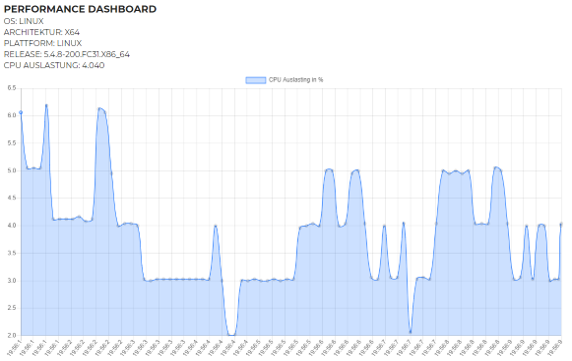
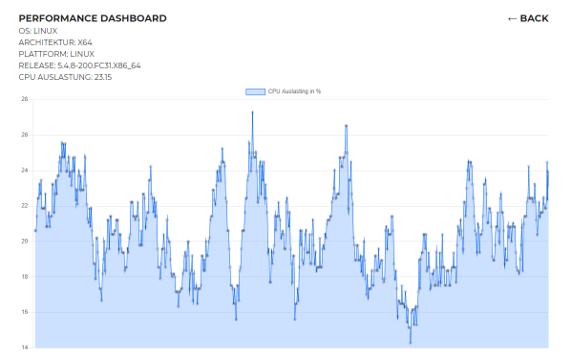
update

Changed region(s): [[0.0, 0.0, 1.0, 1.0], [0.4161, 0.2133, 0.5647, 0.2742], [0.8916, 0.0305, 0.9808, 0.0609]]

diff --git a/src/app/performance-dashboard/performance-dashboard.component.html b/src/app/performance-dashboard/performance-dashboard.component.html
@@ -1,0 +1,60 @@
+<div class="container" style="margin-top: 2rem;">
+  <div class="row">
+    <div class="col">
+      <div>
+        <h3 style="font-size: 20px;font-weight: 600;">PERFORMANCE DASHBOARD <div class="arrow float-right"> <span routerLink="/">← back</span>
+          </div>
+        </h3>
+        <h3>OS: {{data?.os}}</h3>
+        <h3>ARCHITEKTUR: {{data?.arch}}</h3>
+        <h3>PLATTFORM: {{data?.platform}}</h3>
+        <h3>RELEASE: {{data?.release}}</h3>
+        <h3>CPU AUSLASTUNG: {{data?.cpu}}</h3>
+      </div>
+    </div>
+  </div>
+  <div class="row">
+    <div class="col">
+      <canvas id="myChart"></canvas>
+    </div>
+  </div>
+  <br>
+  <div class="row">
+    <div class="col">
+      <p>Projektbeschreibung:</p>
+      Das Performance Dashboard visualisiert die CPU Auslastung (in %) des Host-Server in Echtzeit der letzten 60 Sekunden.
+      Die Daten werden pro Sekunde 10x aktualisiert.  
+      <table class="table">
+        <thead>
+          <tr>
+            <th scope="col">#</th>
+            <th scope="col">Dimension</th>
+            <th scope="col">Wert</th>
+          </tr>
+        </thead>
+        <tbody>
+          <tr>
+            <th scope="row">1</th>
+            <td>Backend</td>
+            <td>NodeJS</td>
+          </tr>
+          <tr>
+            <th scope="row">2</th>
+            <td>Datenprotokoll</td>
+            <td>Websocket</td>
+          </tr>
+          <tr>
+            <th scope="row">3</th>
+            <td>Chart-Lib</td>
+            <td>Chart.JS</td>
+          </tr>
+          <tr>
+            <th scope="row">4</th>
+            <td>Aktualisierungsintervall</td>
+            <td>10/sec</td>
+          </tr>
+        </tbody>
+      </table>
+    </div>
+  </div>
+</div>

diff --git a/src/app/home/home.component.html b/src/app/home/home.component.html
@@ -127,6 +127,7 @@ width: 100%;z-index: 100;">
     <div class="container">
         <h2>Portfolio</h2>
         <h6 style="margin: 0 0 40px 0;">Alle Projekte sind Open-Source und stehen unter der MIT-Lizenz.</h6>
+        <!--
         <div class="portfolioFilter">
             <ul class="Portfolio-nav">
                 <li><a href="#" data-filter="*" class="current">All</a></li>
@@ -135,7 +136,7 @@ width: 100%;z-index: 100;">
                 <li><a href="#" data-filter=".Applikation">Applikation</a></li>
                 <li><a href="#" data-filter=".Tutorial">Tutorial</a></li>
             </ul>
-        </div>
+        </div>-->
 
     </div>
     <div class="container" style="display:flex;flex-direction: row;flex-wrap:  wrap  ">
@@ -155,17 +156,17 @@ width: 100%;z-index: 100;">
             <p>API</p>
         </div>
         <div class=" Portfolio-box API" style="padding: 1rem;">
-            <a href="assets/img/projekt3.PNG"><img src="assets/img/projekt3.PNG" alt=""></a>
+            <img src="assets/img/projekt3.PNG" alt="">
             <h3>Projekt 4</h3>
             <p>API</p>
         </div>
         <div class=" Portfolio-box Tutorial" style="padding: 1rem;">
-            <a href="assets/img/projekt4.PNG"><img src="assets/img/projekt4.PNG" alt=""></a>
+            <img src="assets/img/projekt4.PNG" alt="">
             <h3>Projekt 5</h3>
             <p>Tutorial</p>
         </div>
         <div class=" Portfolio-box Applikation" style="padding: 1rem;">
-            <a href="assets/img/projekt5.PNG"><img src="assets/img/projekt5.PNG" alt=""></a>
+            <img src="assets/img/projekt5.PNG" alt="">
             <h3>Projekt 6</h3>
             <p>Applikation</p>
         </div>

diff --git a/src/app/website/website.component.html b/src/app/website/website.component.html
@@ -1,7 +1,41 @@
 <div class="container" style="margin-top: 2rem;">
+    <div class="row">
     <div class="col">
         <div>
             <h3 style="font-size: 20px;font-weight: 600;">Website <div routerLink="/" class="arrow float-right">← back</div> </h3>
         </div>
     </div>
+</div>
+    <div class="row">
+        <div class="col">
+          <p>Projektbeschreibung:</p>
+          Die Website wurde mit dem Frontend Framework Angular + Bootstrap erstellt. Als Webserver kommt das ExpressJS Framework auf NodeJS Basis in Einsatz.   
+          <table class="table">
+            <thead>
+              <tr>
+                <th scope="col">#</th>
+                <th scope="col">Dimension</th>
+                <th scope="col">Wert</th>
+              </tr>
+            </thead>
+            <tbody>
+              <tr>
+                <th scope="row">1</th>
+                <td>Frontend</td>
+                <td>Angular (9.0.1)</td>
+              </tr>
+              <tr>
+                <th scope="row">2</th>
+                <td>Webserver</td>
+                <td>ExpressJS</td>
+              </tr>
+              <tr>
+                <th scope="row">3</th>
+                <td>GUI</td>
+                <td>Bootstrap</td>
+              </tr>
+            </tbody>
+          </table>
+        </div>
+      </div>
 </div>

diff --git a/src/app/app.module.ts b/src/app/app.module.ts
@@ -4,8 +4,7 @@ import { NgModule } from '@angular/core';
 import { AppRoutingModule } from './app-routing.module';
 import { AppComponent } from './app.component';
 import { HomeComponent } from './home/home.component';
-import { PerformanceDashboardComponent } from './performance-dashboard/performance-dashboard/performance-dashboard.component';
-import { TestComponent } from './test/test.component';
+import { PerformanceDashboardComponent } from './performance-dashboard/performance-dashboard.component';
 import { WebsiteComponent } from './website/website.component';
 
 @NgModule({
@@ -13,7 +12,6 @@ import { WebsiteComponent } from './website/website.component';
     AppComponent,
     HomeComponent,
     PerformanceDashboardComponent,
-    TestComponent,
     WebsiteComponent,
     
   ],

diff --git a/src/app/app-routing.module.ts b/src/app/app-routing.module.ts
@@ -1,8 +1,7 @@
 import { NgModule } from '@angular/core';
 import { Routes, RouterModule } from '@angular/router';
 import { HomeComponent } from './home/home.component';
-import { PerformanceDashboardComponent } from './performance-dashboard/performance-dashboard/performance-dashboard.component';
-import { TestComponent } from './test/test.component';
+import { PerformanceDashboardComponent } from './performance-dashboard/performance-dashboard.component';
 import { WebsiteComponent } from './website/website.component';
 
 
@@ -16,10 +15,6 @@ const routes: Routes =  [
   {
     path: 'performance-dashboard',
     component: PerformanceDashboardComponent
-  },
-  {
-    path: 'test',
-    component: TestComponent
   },
 
 ];

diff --git a/src/app/home/home.component.scss b/src/app/home/home.component.scss
@@ -282,6 +282,7 @@ color: #fff;
 	transition:all 0.3s ease-in-out;
 	-moz-transition:all 0.3s ease-in-out;
 	-webkit-transition:all 0.3s ease-in-out;	
+	box-shadow: 0 2px 2px 0 rgba(0, 0, 0, 0.14), 0 1px 5px 0 rgba(0, 0, 0, 0.12), 0 3px 1px -2px rgba(0, 0, 0, 0.2);
 }
 
 .Portfolio-box img:hover {

diff --git a/src/app/performance-dashboard/performance-dashboard.component.ts b/src/app/performance-dashboard/performance-dashboard.component.ts
@@ -29,7 +29,7 @@ export class PerformanceDashboardComponent implements OnInit {
 }
 
  removeData(chart) {
-   if(chart.data.labels.length >= 100){
+   if(chart.data.labels.length >= 600){
   chart.data.labels.shift();
   chart.data.datasets[0].data.shift();
   chart.update();
